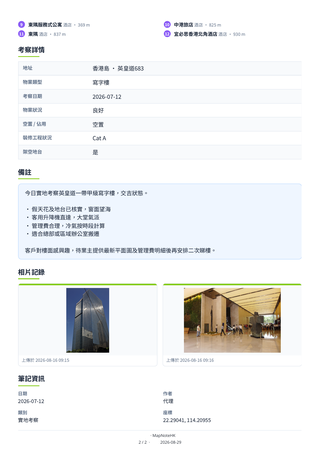
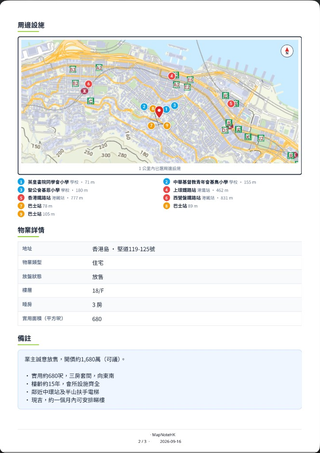
Replace feature-5 PDF brochure pages with the Mid-Levels listing.
The showcase still showed older paper pages; swap PNG/WebP srcset for the current location/zoning cover and amenities/details page.

diff --git a/index.html b/index.html
@@ -286,12 +286,12 @@
               <!-- Real generated brochure: maps cover + details/photos shown as a page pair -->
               <div class="showcase-duo showcase-duo-paper">
                 <picture>
-                  <source type="image/webp" srcset="./assets/feature-pdf-p1-320.webp 320w, ./assets/feature-pdf-p1-640.webp 640w" sizes="(max-width: 860px) 42vw, 283px" />
-                  <img src="./assets/feature-pdf-p1-640.png" srcset="./assets/feature-pdf-p1-320.png 320w, ./assets/feature-pdf-p1-640.png 640w" sizes="(max-width: 860px) 42vw, 283px" width="640" height="905" data-i18n-alt="home.f5AltP1" alt="" loading="lazy" decoding="async" />
+                  <source type="image/webp" srcset="./assets/feature-pdf-p1-320.webp?v=20260916a 320w, ./assets/feature-pdf-p1-640.webp?v=20260916a 640w" sizes="(max-width: 860px) 42vw, 283px" />
+                  <img src="./assets/feature-pdf-p1-640.png?v=20260916a" srcset="./assets/feature-pdf-p1-320.png?v=20260916a 320w, ./assets/feature-pdf-p1-640.png?v=20260916a 640w" sizes="(max-width: 860px) 42vw, 283px" width="640" height="905" data-i18n-alt="home.f5AltP1" alt="" loading="lazy" decoding="async" />
                 </picture>
                 <picture>
-                  <source type="image/webp" srcset="./assets/feature-pdf-p2-320.webp 320w, ./assets/feature-pdf-p2-640.webp 640w" sizes="(max-width: 860px) 42vw, 283px" />
-                  <img src="./assets/feature-pdf-p2-640.png" srcset="./assets/feature-pdf-p2-320.png 320w, ./assets/feature-pdf-p2-640.png 640w" sizes="(max-width: 860px) 42vw, 283px" width="640" height="905" data-i18n-alt="home.f5AltP2" alt="" loading="lazy" decoding="async" />
+                  <source type="image/webp" srcset="./assets/feature-pdf-p2-320.webp?v=20260916a 320w, ./assets/feature-pdf-p2-640.webp?v=20260916a 640w" sizes="(max-width: 860px) 42vw, 283px" />
+                  <img src="./assets/feature-pdf-p2-640.png?v=20260916a" srcset="./assets/feature-pdf-p2-320.png?v=20260916a 320w, ./assets/feature-pdf-p2-640.png?v=20260916a 640w" sizes="(max-width: 860px) 42vw, 283px" width="640" height="905" data-i18n-alt="home.f5AltP2" alt="" loading="lazy" decoding="async" />
                 </picture>
               </div>
             </div>
